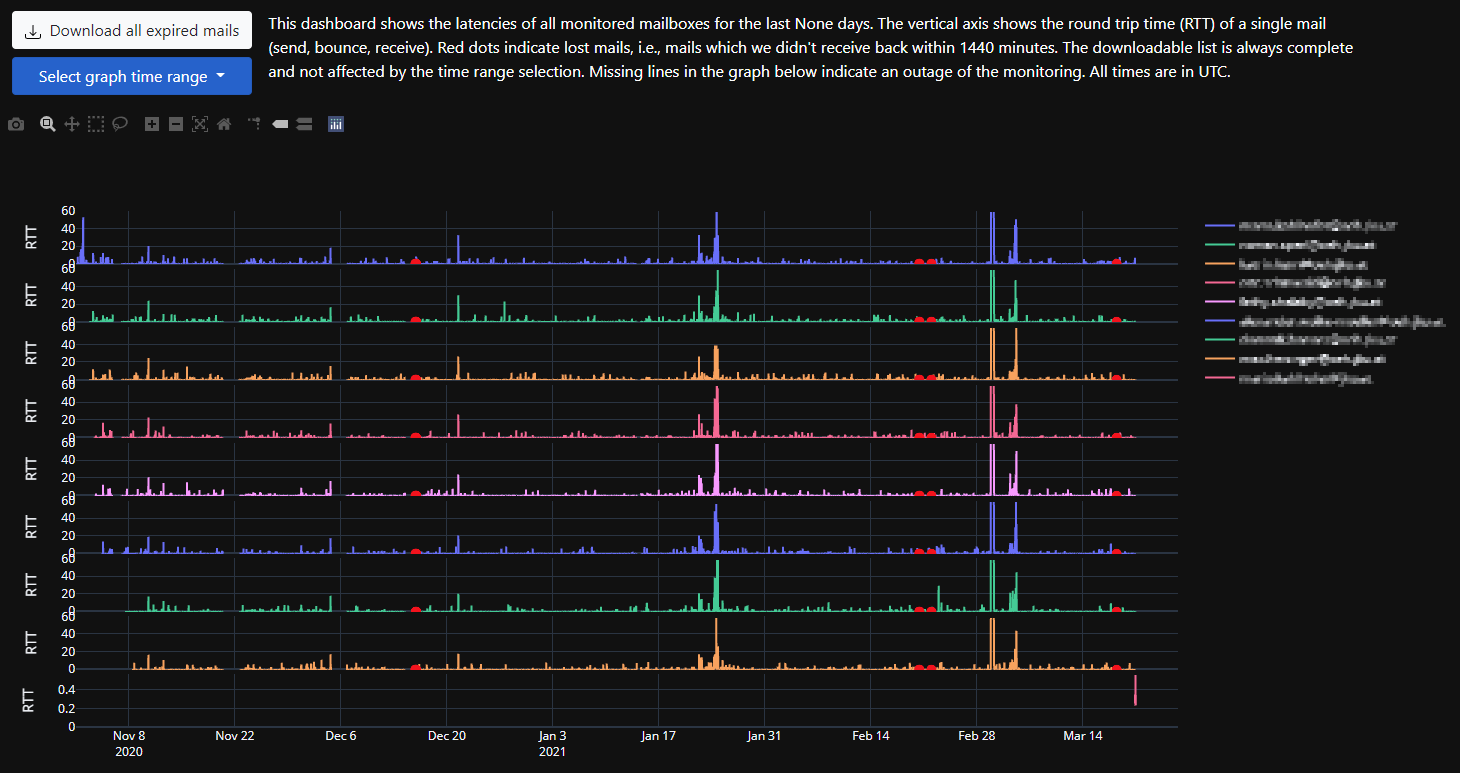
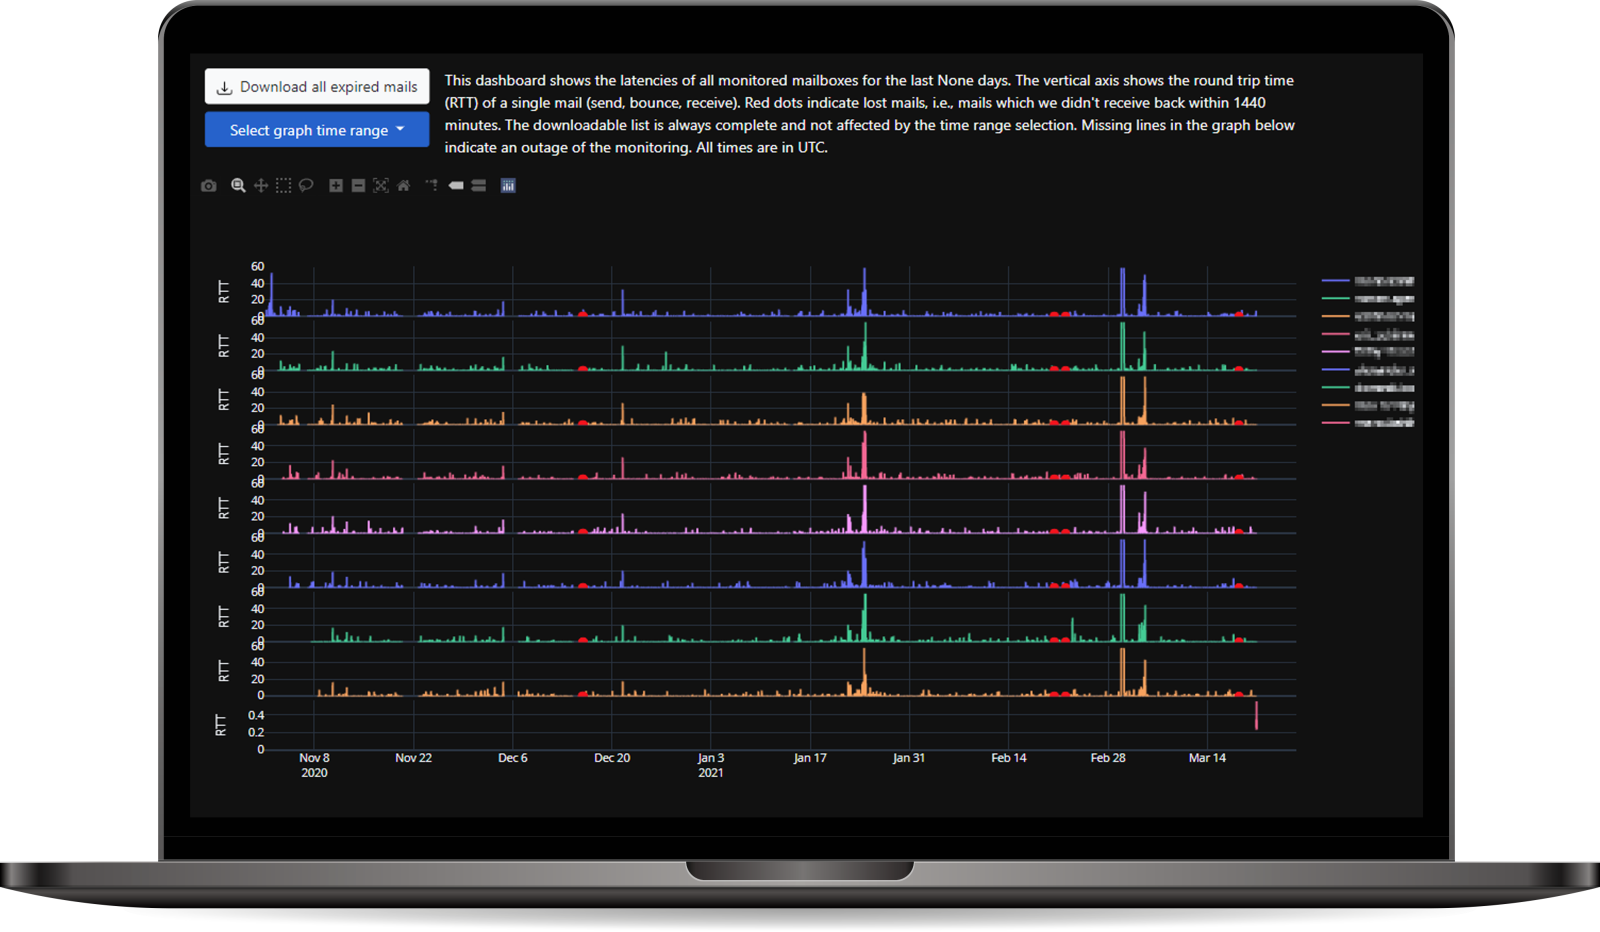
Make the screenshot cooler

diff --git a/README.md b/README.md
@@ -60,4 +60,5 @@ To add or remove targets easily, you can access the exposed API on `http://local
 
 ## Attribution
 
-Favicon made by [Freepik](https://www.flaticon.com/authors/freepik) from [Flaticon](https://www.flaticon.com/)
+Favicon made by [Freepik](https://www.flaticon.com/authors/freepik) from [Flaticon](https://www.flaticon.com/).
+Laptop Mockup made by [Rawpixel](https://www.rawpixel.com/) from [Freepik](http://freepik.com/).
